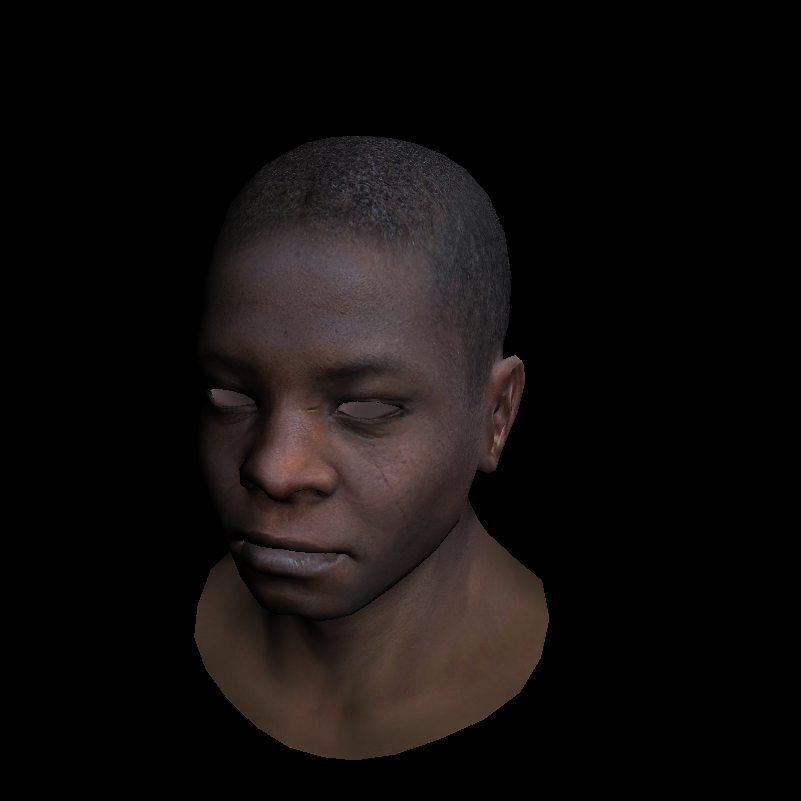
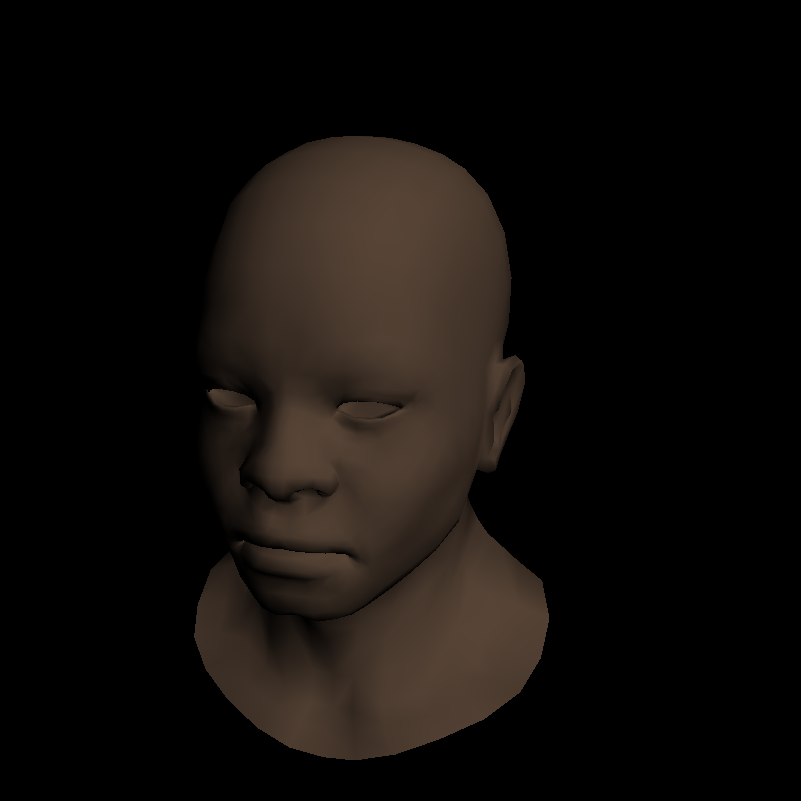
Got the colors sort of right

Changed region(s): [[0.3121, 0.1561, 0.6554, 0.593], [0.3121, 0.4994, 0.5618, 0.7179]]

diff --git a/src/renderer.rs b/src/renderer.rs
@@ -9,34 +9,38 @@ pub trait Shader {
     fn fragment(&self, bar: Vertex3<f32>, pixel: &mut image::Rgb<u8>) -> bool;
 }
 
-pub struct GouradShader {
+pub struct GouradShader<'a> {
     varying_intensity: Vertex3<f32>,
-    varying_uv: Matrix,
+    varying_uv: [Vertex3<f32>; 3],
+    model: &'a Model,
 }
 
-impl GouradShader {
-    pub fn new(model: &Model, face: &Face, light_dir: Vertex3<f32>) -> GouradShader {
+impl<'a> GouradShader<'a> {
+    pub fn new(model: &'a Model, face: &Face, light_dir: Vertex3<f32>) -> GouradShader<'a> {
         let mut intensity: [f32; 3] = [1.0; 3];
-        let mut varying_uv = Matrix::new(2,3);
+        let mut textures = [Vertex3::new(); 3];
         for i in 0..3 {
             let normal_idx = face.get_normal(i) as usize;
             let texture_idx = face.get_texture(i) as usize;
             let normal = *model.normals.get(normal_idx).unwrap();
-            let texture = *model.textures.get(texture_idx).unwrap();
+            textures[i] = *model.textures.get(texture_idx).unwrap();
             intensity[i] = 0f32.max(normal * light_dir);
         }
         GouradShader { 
             varying_intensity: Vertex3::init(intensity[0], intensity[1], intensity[2]),
-            varying_uv: varying_uv,
+            varying_uv: textures,
+            model: model,
         }
     }
 }
 
-impl Shader for GouradShader {
+impl<'a> Shader for GouradShader<'a> {
     fn fragment(&self, bar: Vertex3<f32>, pixel: &mut image::Rgb<u8>) -> bool {
         let intensity = self.varying_intensity * bar;
+        let uv = (self.varying_uv[0] * bar.x) + (self.varying_uv[1] * bar.y) + (self.varying_uv[2] * bar.z);
+        let texture_pixel = self.model.uv(uv);
         for i in 0..3 {
-            pixel[i] = (pixel[i] as f32 * intensity) as u8;
+            pixel[i] = (texture_pixel[i] as f32 * intensity) as u8;
         }
         true
     }
@@ -75,7 +79,6 @@ pub fn viewport(x: u32, y: u32, h: u32, w: u32, depth: u32) -> Matrix {
 }
 
 pub fn triangle<S: Shader>(verts: &[Vertex3<f32>; 3],
-                textures: &[Vertex3<f32>; 3],
                 shader: S,
                 texture_map: &DynamicImage,
                 zbuffer: &mut [f32],
@@ -119,16 +122,13 @@ pub fn triangle<S: Shader>(verts: &[Vertex3<f32>; 3],
             if bc_screen.x < 0.0 || bc_screen.y < 0.0 || bc_screen.z < 0.0 {
                 continue;
             }
-            let p_uv = (textures[0] * bc_screen.x) + (textures[1] * bc_screen.y) + (textures[2] * bc_screen.z);
             p.z = 0.0;
             p.z += verts[0].z * bc_screen.x;
             p.z += verts[1].z * bc_screen.y;
             p.z += verts[2].z * bc_screen.z;
             let zbuff_idx = (p.x + p.y * width) as usize;
             if zbuffer[zbuff_idx - 1] < p.z {
-                let texture_x = p_uv.x * texture_buf_height as f32;
-                let texture_y = p_uv.y * texture_buf_width as f32;
-                let mut pixel = texture_buf.get_pixel(texture_x as u32, texture_y as u32).clone();
+                let mut pixel = image::Rgb([255u8; 3]);
                 shader.fragment(bc_screen, &mut pixel);
                 zbuffer[zbuff_idx - 1] = p.z;
                 imgbuf.put_pixel(p.x as u32, p.y as u32, pixel);

diff --git a/src/main.rs b/src/main.rs
@@ -35,19 +35,16 @@ fn main() {
     for face in model.faces.clone() {
         let mut screen_coords: [Vertex3<f32>; 3] = [Vertex3::new(); 3];
         let mut world_coords: [Vertex3<f32>; 3] = [Vertex3::new(); 3];
-        let mut texture_coords: [Vertex3<f32>; 3] = [Vertex3::new(); 3];
 
         for i in 0..3 {
             let vertex_index = face.get_vertex(i) as usize;
             let texture_index = face.get_texture(i) as usize;
             world_coords[i] = *model.verts.get(vertex_index).unwrap();
-            texture_coords[i] = *model.textures.get(texture_index).unwrap();
             screen_coords[i] = (viewport.clone() * projection.clone() * model_view.clone()  * world_coords[i].to_matrix()).to_vector();
         }
         let shader = GouradShader::new(&model, &face, light_dir);
 
         renderer::triangle(&screen_coords,
-                           &texture_coords,
                            shader,
                            &model.texture_image,
                            &mut zbuffer,

diff --git a/src/model.rs b/src/model.rs
@@ -118,8 +118,8 @@ impl Model {
         }
     }
 
-    pub fn uv(&self, uv: Vertex2<f32>) -> &image::Rgba<u8> {
-        let imgbuf = self.texture_image.as_rgba8().unwrap();
+    pub fn uv(&self, uv: Vertex3<f32>) -> &image::Rgb<u8> {
+        let imgbuf = self.texture_image.as_rgb8().unwrap();
         let height = imgbuf.height();
         let width = imgbuf.width();
         imgbuf.get_pixel(uv.x as u32 * height, uv.y as u32 * width)
